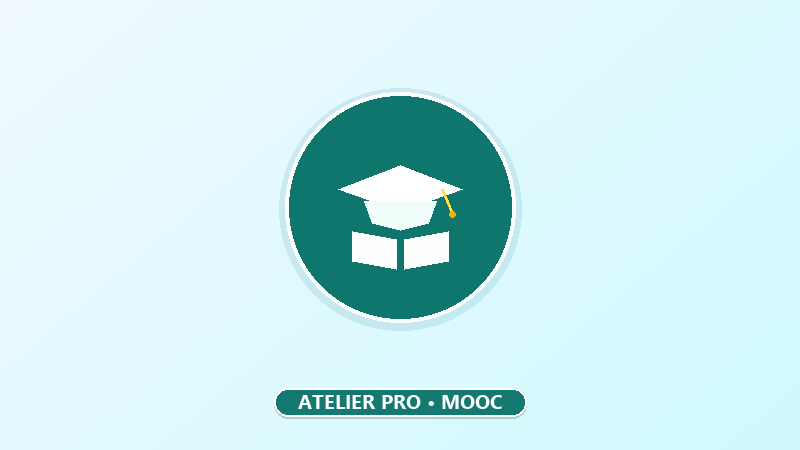
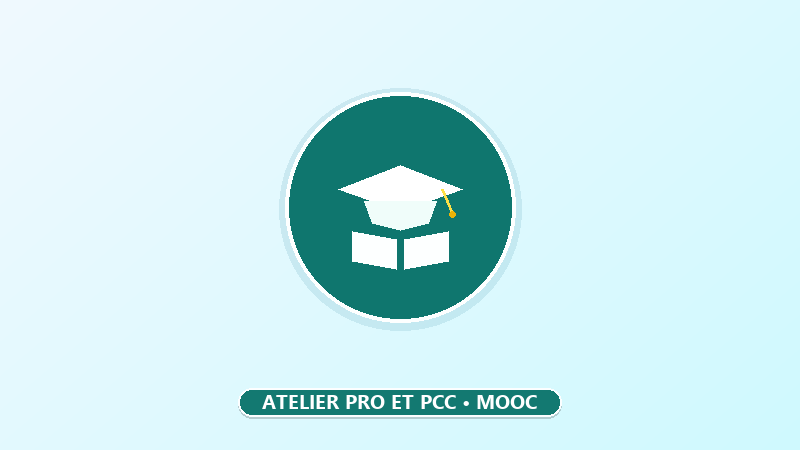
Renommage du bouton de categorie et du badge en Atelier Pro et PCC

Changed region(s): [[0.2812, 0.84, 0.7188, 0.9333]]

diff --git a/index.html b/index.html
@@ -770,7 +770,7 @@
         <button class="block-btn" data-block="bloc1">Bloc 1</button>
         <button class="block-btn" data-block="bloc2">Bloc 2</button>
         <button class="block-btn" data-block="bloc3">Bloc 3</button>
-        <button class="block-btn" data-block="pro">Atelier Pro</button>
+        <button class="block-btn" data-block="pro">Atelier Pro et PCC</button>
       </div>
 
       <!-- Recherche instantanée -->
@@ -1297,7 +1297,7 @@
       }
 
       let badgeText = isStage ? (p.tag || 'Stage') : p.cat.toUpperCase();
-      if (!isStage && p.cat === 'pro') badgeText = 'ATELIER PRO';
+      if (!isStage && p.cat === 'pro') badgeText = 'ATELIER PRO ET PCC';
 
       return `
         <div class="col-md-6 col-lg-4 col-xl-3 tp-item reveal" data-name="${p.name.toLowerCase()}" data-desc="${p.description.toLowerCase()}" data-cat="${p.cat || 'stage'}">
